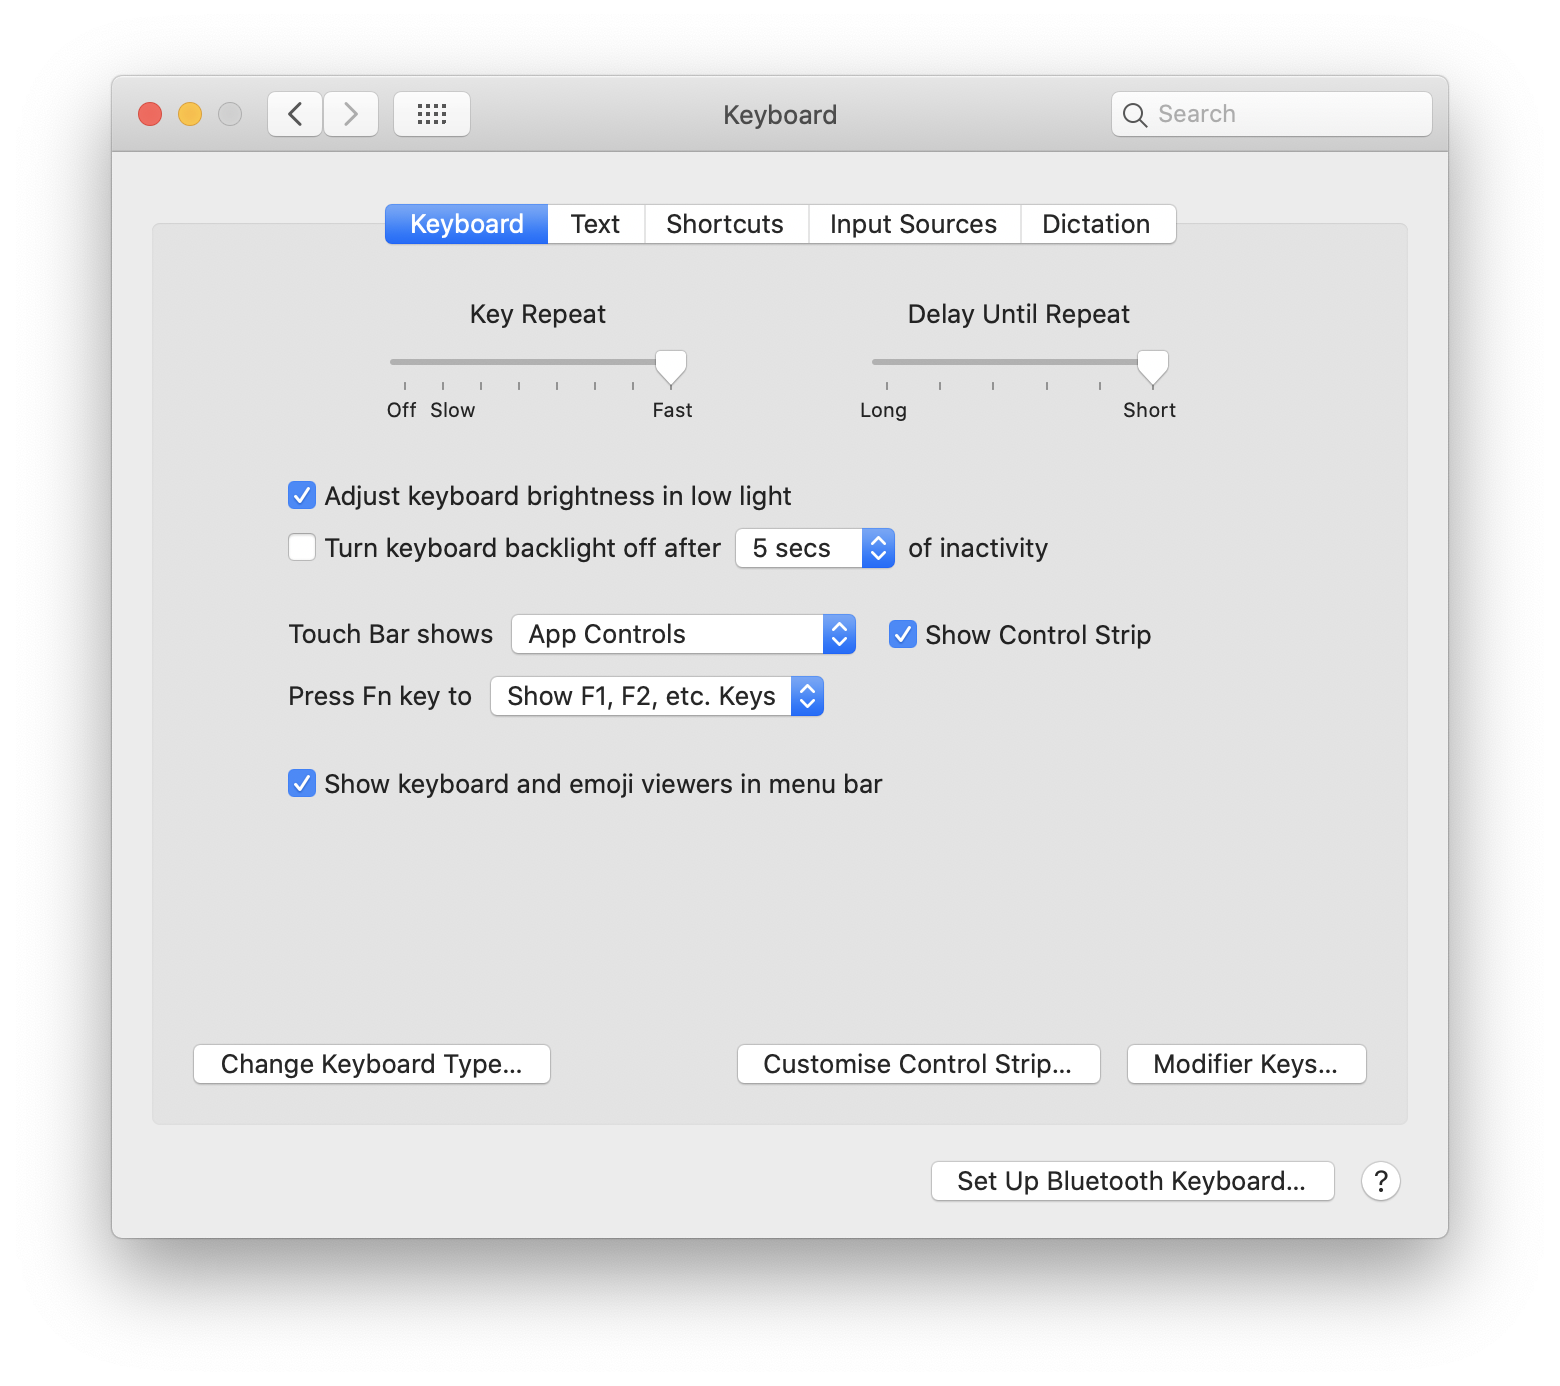
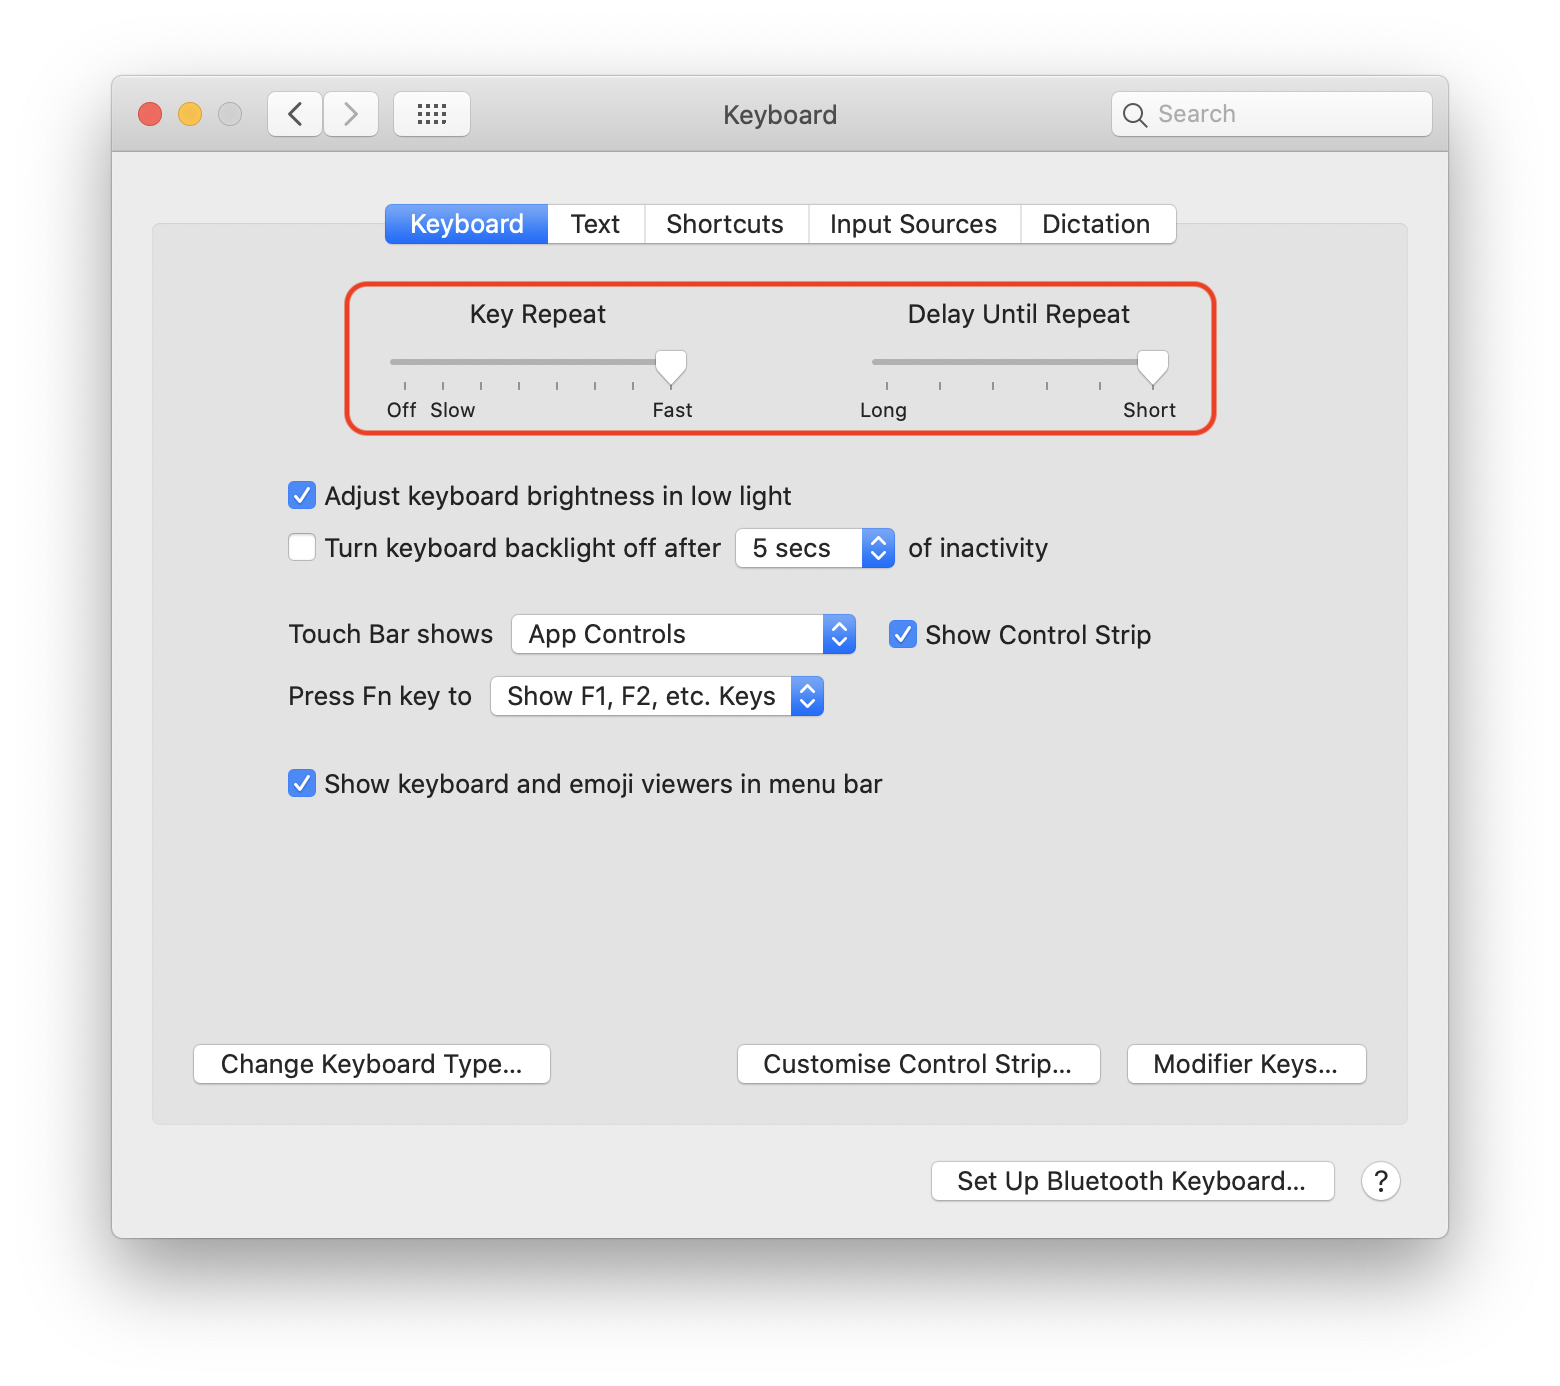
Add configurations

Changed region(s): [[0.2154, 0.1861, 0.7692, 0.3102], [0.2462, 0.3102, 0.7692, 0.3413], [0.7692, 0.2172, 0.8, 0.3102]]

diff --git a/README.md b/README.md
@@ -1,7 +1,5 @@
 # macOSsetup
-I'm currently using a MacBook Pro 16" (2019) and an external 27" monitor (LG 27UD88-W). This is how the screen arrangement looks like:
-
-![](screens.png)
+Note: I know all the customisations could be translated to [dotfiles](https://www.quora.com/What-are-dotfiles), something I should do at some point I guess 😅
 
 ## Apps
 
@@ -45,6 +43,12 @@ The first ones I download are at the top (Flycut ❤, caffeine, 1password Bet
 
 ## Configurations
 
+I'm currently using a MacBook Pro 16" (2019), an external 27" monitor (LG 27UD88-W), trackpad and mechanical keyboard.
+
+This is how the screen arrangement looks like:
+
+![](screens.png)
+
 ### Statusbar
 
 This is how my status bar looks like:
@@ -55,15 +59,41 @@ This is how my status bar looks like:
 
 ### Trackpad
 
-WIP
+I started using trackpads around 6 years ago, I really prefer it over the mouse for work and normal day to day, specially for text selection and its gestures. For gaming mouse is still king.
+
+First thing is let's make this faster, go to Trackpad preferences and change it what feels good for you:
+
+![](trackpad-fast.png)
+
+Now we need the best feature ever for trackpads, drag with 3 fingers, which you can find in `Accessibility > Pointer Control > Trackpad Options...`
+
+![](trackpad-3finger.png)
 
 ### Keyboard
 
-WIP
+Again, too slow, let's make this fast! Go to keyboard preferences and change it, I go for as fast as it can on "Key Repeat" and as short as possible on "Delay Until Repeat":
+
+Note: I was using Karabiner for this before, but Apple added this on some previous macOS version which is good enough for me, so I don't install Karabiner anymore.
+
+![](keyboard.png)
+
+Now, let's remap a few keys. The most common one is `Caps lock`  to `Escape`. I use a mechanical keyboard which detects `Option` and `Command` the other way around so I have to switch them. From the keyboard preferences, go to `Modifier Keys...` and make as you wish:
+
+![](keyremap.png)
 
 ### Terminal (iTerm2 + zsh)
 
 WIP
+
+### Trailer.app
+
+WIP
+
+### Xcode
+
+I use my own color scheme, which you can find here: https://github.com/Lascorbe/omgthemes
+
+My font of choice is Source Code Pro: https://github.com/adobe-fonts/source-code-pro
 
 ### Safari extensions
 
